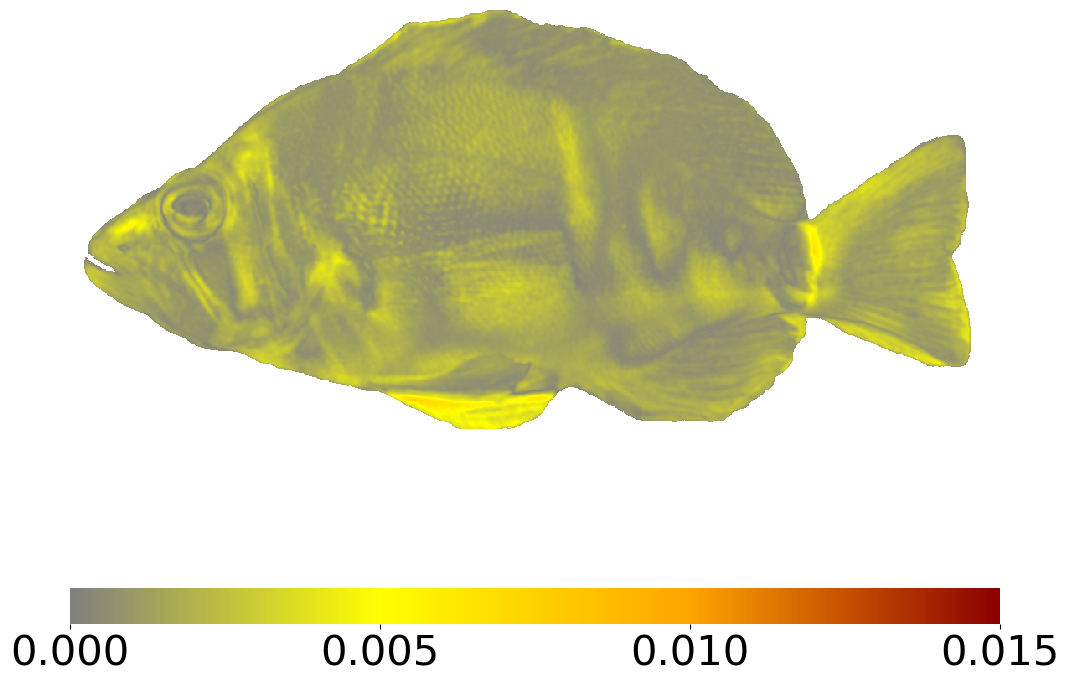
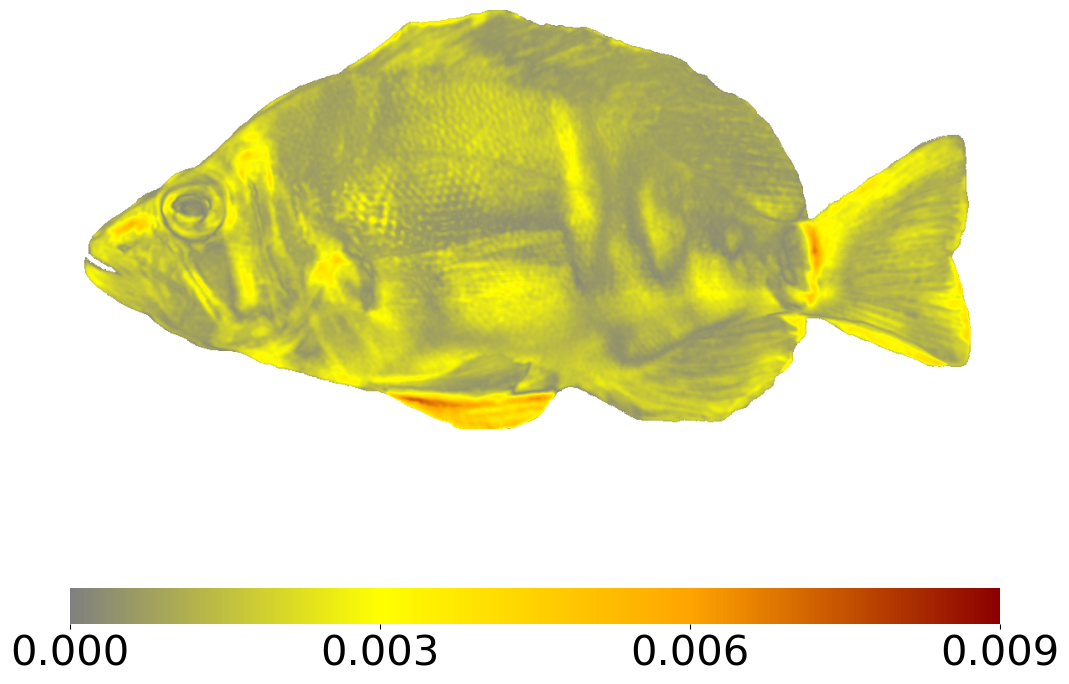
mela

diff --git a/python/plot_snp_heatmap.py b/python/plot_snp_heatmap.py
@@ -128,14 +128,33 @@ def make_heat(b_m, rgb_m, pca, weights, pcs, effect):
     print(-max_val, -min_val)
     
     # Create colormap for futur transformation of im_pcs to raster
-    norm = matplotlib.colors.Normalize(-0.005,0.005)
-    colors = [[norm(-0.005), "darkblue"],
-          [norm(-0.003), "blue"],
-          [norm(-0.001), "lightblue"],
+    # norm = matplotlib.colors.Normalize(-0.005,0.005)      # original version for GxP
+    # colors = [[norm(-0.005), "darkblue"],
+    #       [norm(-0.003), "blue"],
+    #       [norm(-0.001), "lightblue"],
+    #       [norm(0), "grey"],
+    #       [norm(0.001), "yellow"],
+    #       [norm(0.003), "orange"],
+    #       [norm( 0.005), "darkred"]]
+
+    norm = matplotlib.colors.Normalize(-0.03,0.03)            # Version for pnudctm
+    colors = [[norm(-0.03), "darkblue"],
+          [norm(-0.02), "blue"],
+          [norm(-0.01), "lightblue"],
           [norm(0), "grey"],
-          [norm(0.001), "yellow"],
-          [norm(0.003), "orange"],
-          [norm( 0.005), "darkred"]]
+          [norm(0.01), "yellow"],
+          [norm(0.02), "orange"],
+          [norm(0.03), "darkred"]]
+
+    # norm = matplotlib.colors.Normalize(-0.004,0.004)            # version for pnufullm
+    # colors = [[norm(-0.004), "darkblue"],
+    #       [norm(-0.0026), "blue"],
+    #       [norm(-0.0013), "lightblue"],
+    #       [norm(0), "grey"],
+    #       [norm(0.0013), "yellow"],
+    #       [norm(0.0026), "orange"],
+    #       [norm(0.004), "darkred"]]
+
     cmap = matplotlib.colors.LinearSegmentedColormap.from_list("", colors)
     mapper = cm.ScalarMappable(cmap=cmap,norm=norm)
 
@@ -156,19 +175,40 @@ def plot_heat(im_table, figure_path, region_id):
     Creates a panel of 5 heatmaps per regions corresponding to the 5 highest associated SNPs of the region
     '''
 
-    norm = matplotlib.colors.Normalize(-0.005,0.005) # <-- norm to use further to create own color map
+    # norm = matplotlib.colors.Normalize(-0.005,0.005) # <-- norm to use further to create own color map , original version
+    norm = matplotlib.colors.Normalize(-0.03,0.03) # pnu dctm version
+    # norm = matplotlib.colors.Normalize(-0.004,0.004) # pnufullm version
 
     # create own colormap gradient
-    colors = [[norm(-0.005), "darkblue"],
-        [norm(-0.003), "blue"],
-        [norm(-0.001), "lightblue"],
+    # colors = [[norm(-0.005), "darkblue"],
+    #     [norm(-0.003), "blue"],
+    #     [norm(-0.001), "lightblue"],
+    #     [norm(0), "grey"],
+    #     [norm(0.001), "yellow"],
+    #     [norm(0.003), "orange"],
+    #     [norm( 0.005), "darkred"]]
+
+    colors = [[norm(-0.03), "darkblue"],        # pnu dctm version
+        [norm(-0.02), "blue"],
+        [norm(-0.01), "lightblue"],
         [norm(0), "grey"],
-        [norm(0.001), "yellow"],
-        [norm(0.003), "orange"],
-        [norm( 0.005), "darkred"]]
-    
+        [norm(0.01), "yellow"],
+        [norm(0.02), "orange"],
+        [norm(0.03), "darkred"]]
+
+    # colors = [[norm(-0.004), "darkblue"],        # pnu fullm version
+    #     [norm(-0.0026), "blue"],
+    #     [norm(-0.0013), "lightblue"],
+    #     [norm(0), "grey"],
+    #     [norm(0.0013), "yellow"],
+    #     [norm(0.0026), "orange"],
+    #     [norm(0.004), "darkred"]]
+        
     cmap = matplotlib.colors.LinearSegmentedColormap.from_list("", colors) # <-- with gradient create the colormap for heatmaps
-    bounds = [-0.005, 0, 0.005] # <-- create min and max for the colorbar scale
+    # bounds = [-0.005, 0, 0.005] # <-- create min and max for the colorbar scale , original version
+    bounds = [-0.03, 0, 0.03] # pnudctm version 
+    # bounds = [-0.004, 0, 0.004] # pnufullm version 
+
 
     print(im_table["IMAGE"].values[0].shape)
     img_cropped = im_table["IMAGE"].values[0][200:700, 240:1350, :]

diff --git a/python/phenotype_continuous.py b/python/phenotype_continuous.py
@@ -257,11 +257,11 @@ def plot_heatmap(b_m, rgb_m, pca, component, effect, res_path, data_name):
     min_val, max_val = min(im_PCscores), max(im_PCscores)
     print(min_val, max_val)
     
-    norm = matplotlib.colors.Normalize(0,0.015)
+    norm = matplotlib.colors.Normalize(0,0.009)
     colors = [[norm(0), "grey"],
-          [norm(0.005), "yellow"],
-          [norm(0.01), "orange"],
-          [norm( 0.015), "darkred"]]
+          [norm(0.003), "yellow"],
+          [norm(0.006), "orange"],
+          [norm( 0.009), "darkred"]]
 
     # if abs(max_val)<abs(min_val):
     #     bounds = [min_val, -max_val, 0, max_val, -min_val]
@@ -273,7 +273,7 @@ def plot_heatmap(b_m, rgb_m, pca, component, effect, res_path, data_name):
 
     cmap = matplotlib.colors.LinearSegmentedColormap.from_list("", colors)
     mapper = cm.ScalarMappable(cmap=cmap,norm=norm)
-    bounds = [0, 0.005, 0.010, 0.015] # <-- create min and max for the colorbar scale
+    bounds = [0, 0.003, 0.006, 0.009] # <-- create min and max for the colorbar scale
 
     color_mask = np.array([(r, g, b) for r, g, b, a in mapper.to_rgba(im_PCscores)])
     
